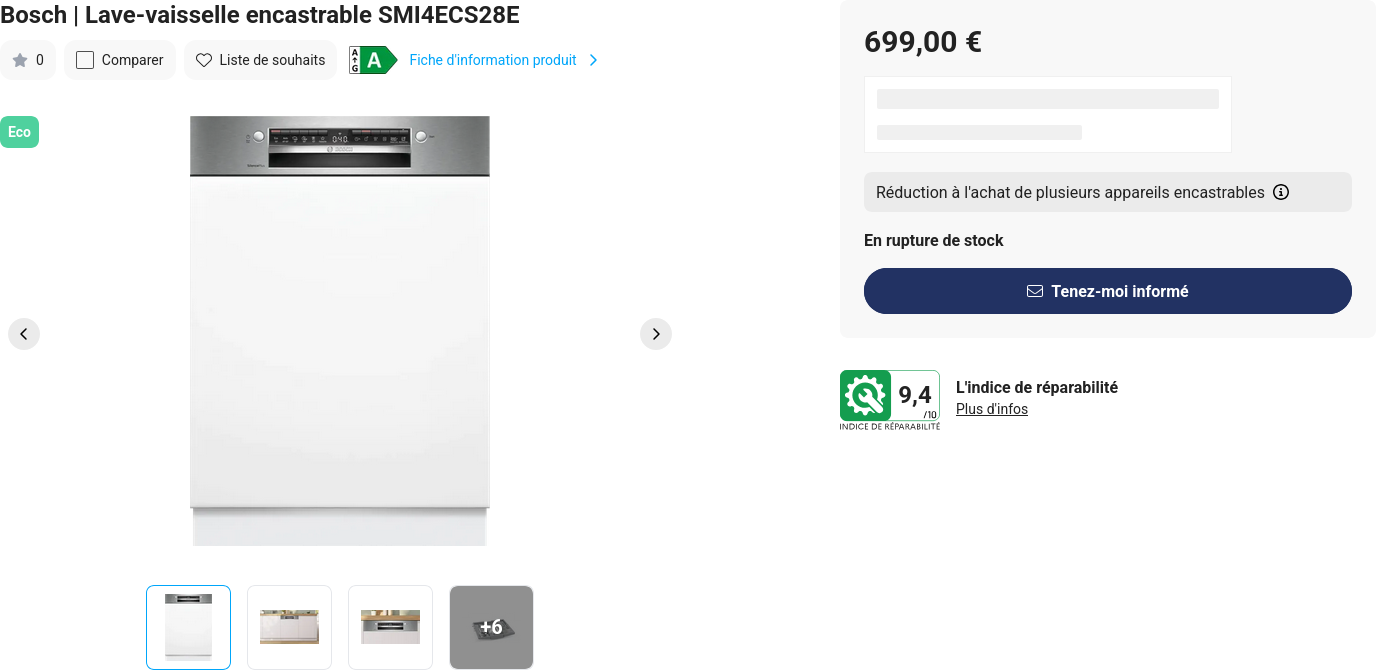
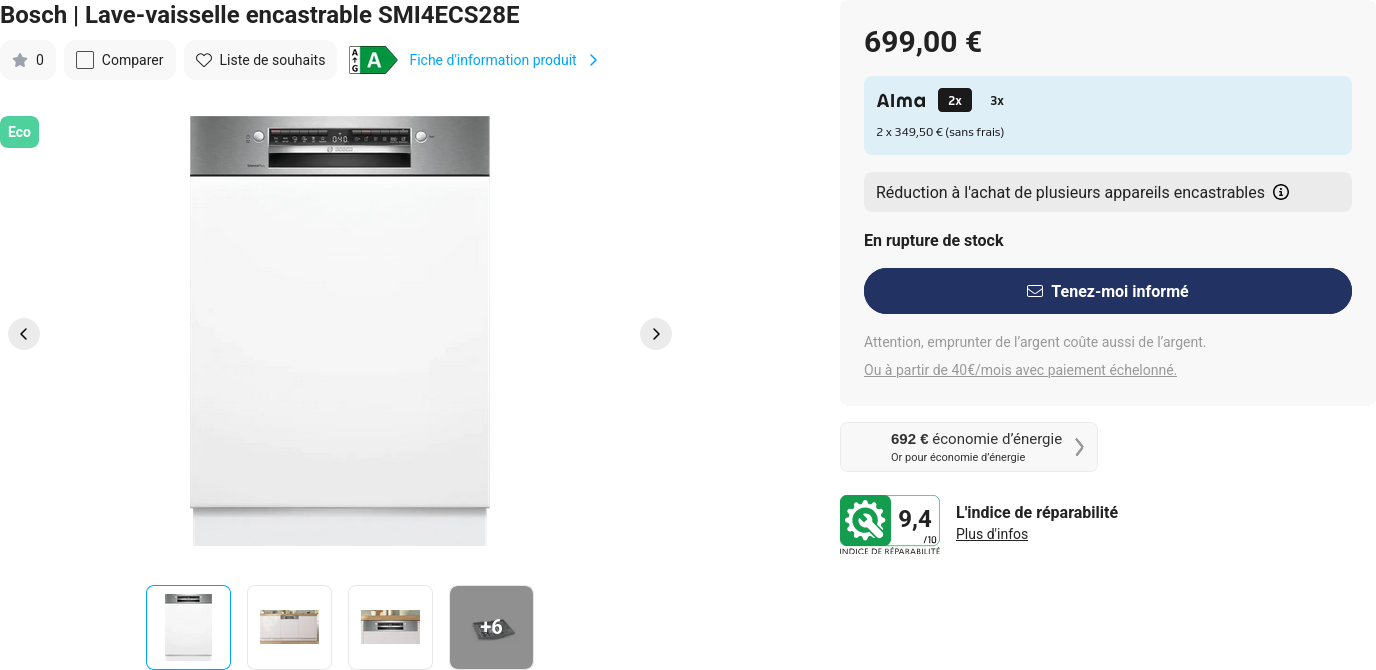
Latest scraping prices: Sun Jul  6 19:22:22 UTC 2025

Changed region(s): [[0.625, 0.0896, 1.0, 0.2388], [0.5938, 0.5075, 0.875, 0.6866], [0.5938, 0.7164, 0.8125, 0.8358]]

diff --git a/scrapes/prices/krefel-SMI4ECS28E.md b/scrapes/prices/krefel-SMI4ECS28E.md
@@ -6,6 +6,10 @@ En rupture de stock
 
 Tenez-moi informé
 
+Attention, emprunter de l’argent coûte aussi de l’argent.
+
+Ou à partir de 40€/mois avec paiement échelonné.
+
 ### 9,4
 
 #### L'indice de réparabilité
